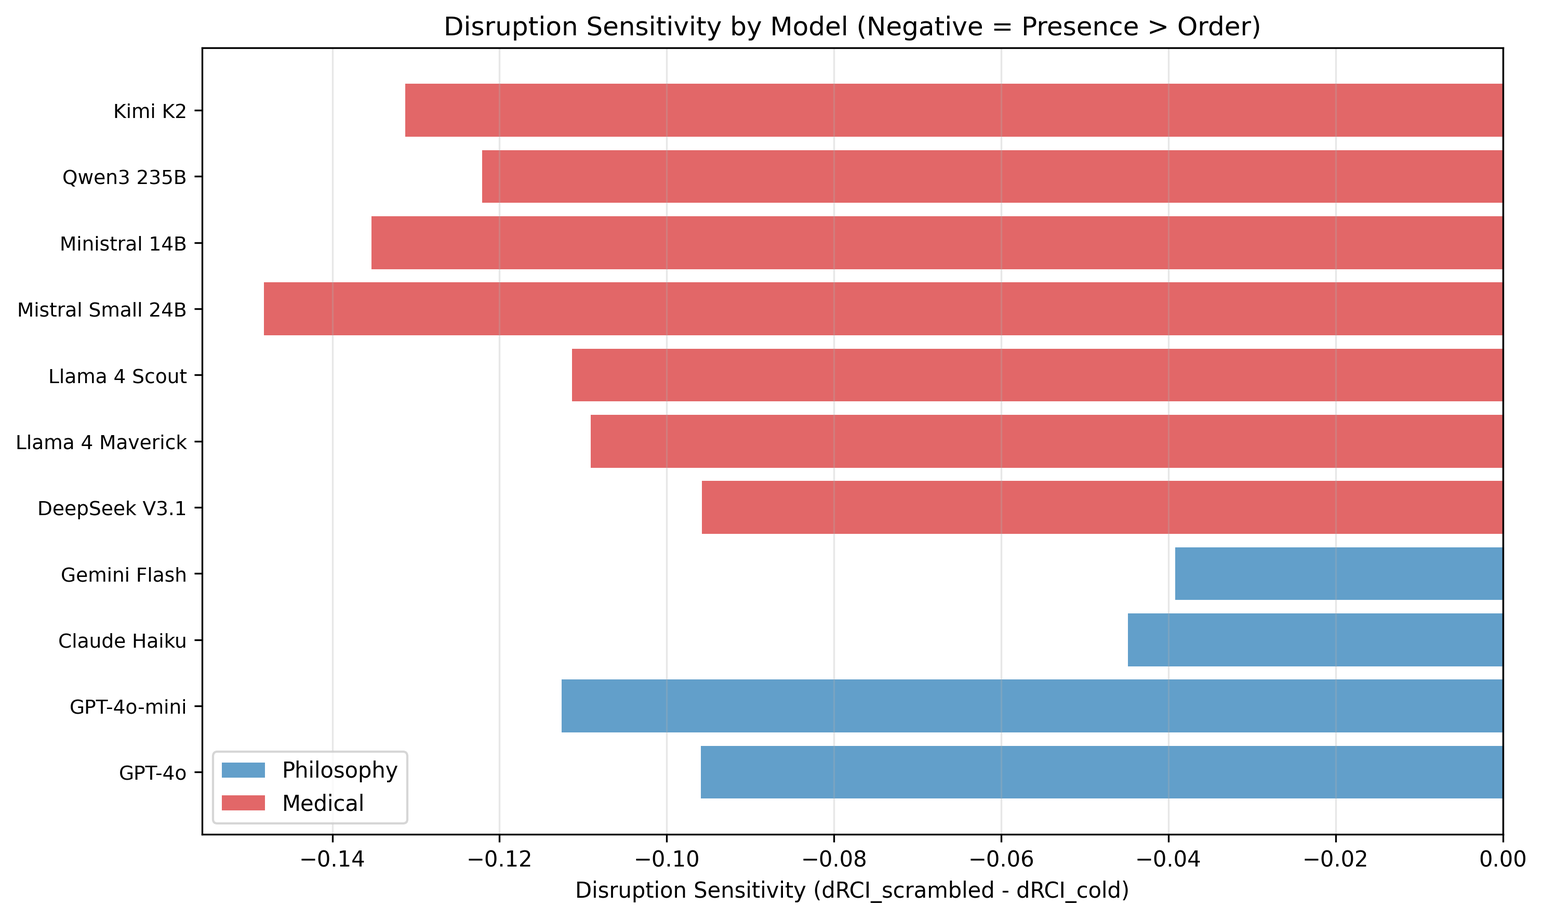
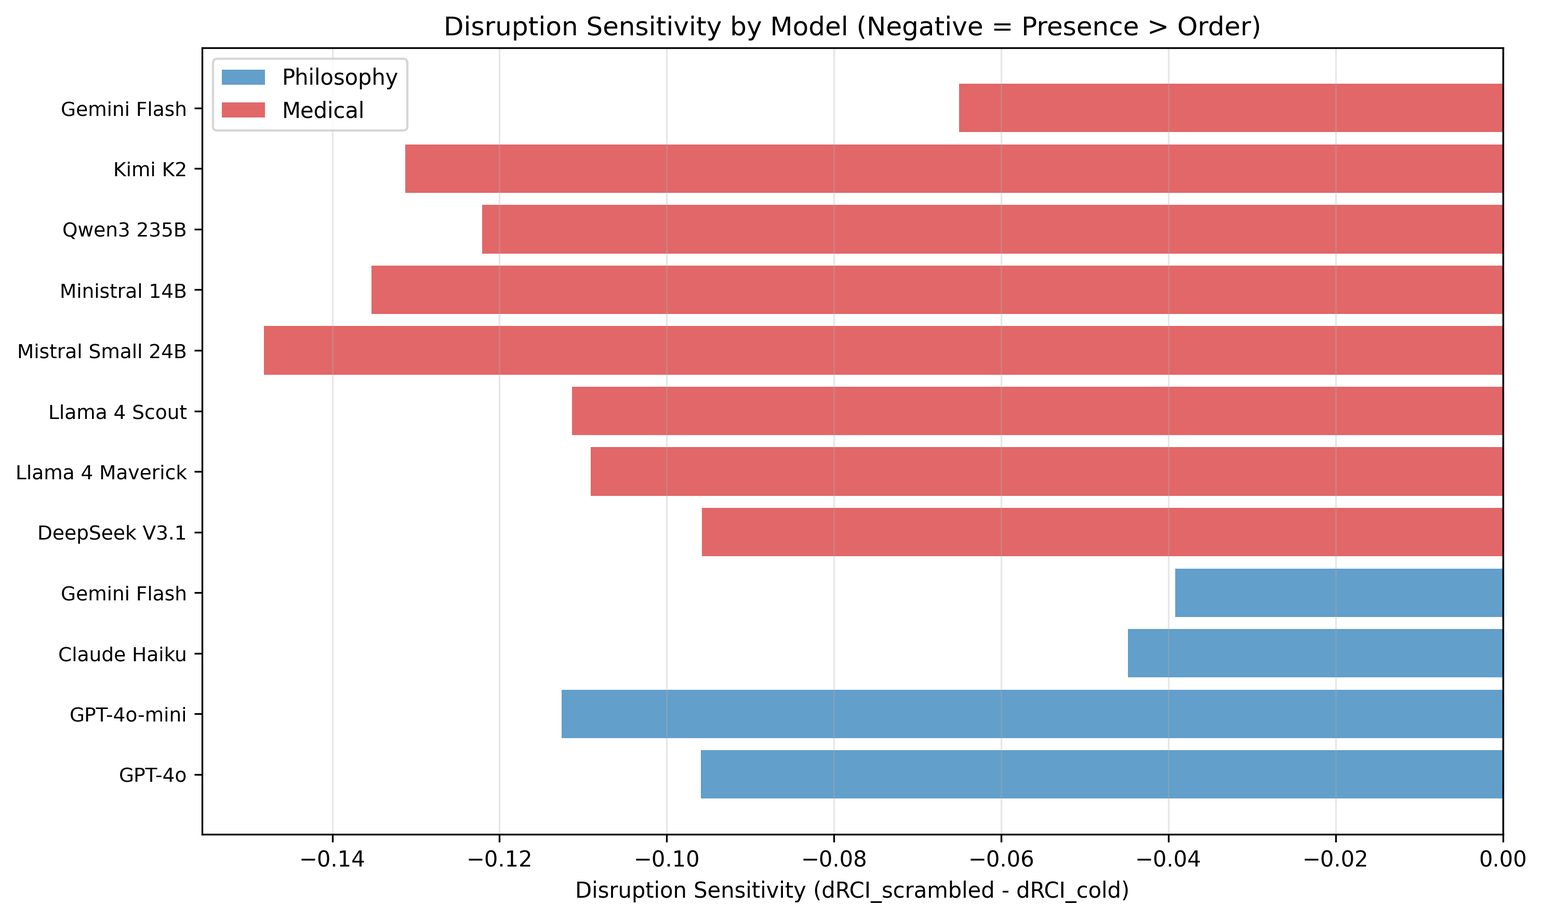
Add Gemini Flash Medical to Paper 3: unify both papers at 12 models
Papers 3 and 4 now use identical 12-model subset (4 phil + 8 med).
Gemini Flash Medical was previously only in Paper 4 despite having
complete response text. Updated all stats, figures, and documentation.

Medical (n=8): Early=0.347, Mid=0.311, Late=0.371, P30 Z=3.47±0.51

diff --git a/scripts/analysis/generate_paper3_cross_domain.py b/scripts/analysis/generate_paper3_cross_domain.py
@@ -4,8 +4,8 @@ Paper 3: Cross-Domain AI Behavior Analysis
 Philosophy vs Medical domains with complete response text data.
 
 Philosophy (4 CLOSED models): GPT-4o, GPT-4o-mini, Claude Haiku, Gemini Flash
-Medical (6 OPEN models): DeepSeek V3.1, Llama 4 Maverick/Scout, Mistral Small, Ministral, Qwen3
-Total: 10 models, ~45,000 responses with full text
+Medical (8 models): DeepSeek V3.1, Kimi K2, Llama 4 Maverick/Scout, Mistral Small, Ministral, Qwen3, Gemini Flash
+Total: 12 models, ~54,000 responses with full text
 """
 
 import json
@@ -40,6 +40,7 @@ MEDICAL_MODELS = {
     "Ministral 14B": BASE_DIR / "data/medical/open_models/mch_results_ministral_14b_medical_50trials.json",
     "Qwen3 235B": BASE_DIR / "data/medical/open_models/mch_results_qwen3_235b_medical_50trials.json",
     "Kimi K2": BASE_DIR / "data/medical/open_models/mch_results_kimi_k2_medical_50trials.json",
+    "Gemini Flash": BASE_DIR / "data/medical/gemini_flash/mch_results_gemini_flash_medical_50trials.json",
 }
 
 # ============================================================================

diff --git a/papers/paper3_cross_domain/Paper3_Results.md b/papers/paper3_cross_domain/Paper3_Results.md
@@ -6,7 +6,7 @@
 ## RESULTS
 
 ### Study overview: a controlled cross-domain design
-We analyzed position-dependent Delta Relational Coherence Index (ΔRCI) across **11 state-of-the-art LLMs** in a cross-domain experimental design: 4 models (closed-source APIs) in philosophy and 7 models (open-source) in medical reasoning. This yields 11 model-domain runs covering 30 conversational positions (330 position measurements). Each position was evaluated under three conditions (TRUE, COLD, SCRAMBLED) with 50 independent trials per model, generating **~49,500 responses with complete text preserved**. ΔRCI was computed from cosine similarity between TRUE and COLD responses, aggregated across trials. Disruption Sensitivity (DS) quantifies the value of context presence versus ordering:
+We analyzed position-dependent Delta Relational Coherence Index (ΔRCI) across **12 state-of-the-art LLMs** in a cross-domain experimental design: 4 models (closed-source APIs) in philosophy and 8 models (7 open-source + 1 closed) in medical reasoning. This yields 12 model-domain runs covering 30 conversational positions (360 position measurements). Each position was evaluated under three conditions (TRUE, COLD, SCRAMBLED) with 50 independent trials per model, generating **~54,000 responses with complete text preserved**. ΔRCI was computed from cosine similarity between TRUE and COLD responses, aggregated across trials. Disruption Sensitivity (DS) quantifies the value of context presence versus ordering:
 
 ```
 DS = ΔRCI_scrambled - ΔRCI_cold
@@ -20,7 +20,7 @@ Negative DS indicates that scrambled context is closer to TRUE than no context (
 | Domain | N Models | Early (1-10) | Mid (11-20) | Late (21-29) | Pattern | Mean DS |
 |--------|----------|--------------|-------------|--------------|---------|---------|
 | Philosophy | 4 | 0.307 (0.028) | 0.331 (0.026) | 0.270 (0.046) | Inverted-U | -0.073 |
-| Medical | 7 | 0.338 (0.038) | 0.303 (0.041) | 0.358 (0.047) | U-shaped | -0.122 |
+| Medical | 8 | 0.347 (0.043) | 0.311 (0.045) | 0.371 (0.056) | U-shaped | -0.115 |
 
 *Note: Position 30 (summarization) excluded from pattern analysis (see Finding 2). DS = Disruption Sensitivity.*
 
@@ -41,7 +41,7 @@ This study identifies **two distinct cognitive architectures** that emerge from 
 | Architecture | Type | Goal Structure | Domain Example | Temporal Pattern | ΔRCI Range | P30 Behavior | Evidence |
 |--------------|------|----------------|----------------|------------------|------------|--------------|----------|
 | **Open-Goal** | Type 1 | Unbounded | Philosophy (consciousness) | Inverted-U (mid-peak at P15-20) | 0.27-0.33 | No spike (summarization feasible) | 4/4 models (100%) |
-| **Closed-Goal** | Type 2 | Guideline-bounded | Medical (STEMI diagnosis) | U-shaped (diagnostic trough at P10-25) | 0.30-0.36 | **Extreme spike** (Z > +3.5, task enablement) | 7/7 models (100%) |
+| **Closed-Goal** | Type 2 | Guideline-bounded | Medical (STEMI diagnosis) | U-shaped (diagnostic trough at P10-25) | 0.31-0.37 | **Extreme spike** (Z > +2.7, task enablement) | 8/8 models (100%) |
 
 **Key Principle**: Architectures are distinguished by **temporal dynamics and P30 task enablement**, not by ΔRCI magnitude (ranges overlap). Goal structure—not domain content—determines context sensitivity architecture.
 
@@ -52,7 +52,7 @@ This study identifies **two distinct cognitive architectures** that emerge from 
    - **Type 2 (Closed-Goal)**: Medical diagnosis, legal contract analysis, guideline-based code review → U-shaped pattern, extreme P30 spike
 
 2. **Safety-Critical Insight**: Type 2 tasks show **task enablement** (not just performance enhancement) at summarization positions:
-   - Medical P30: Mean Z = +3.55 (all 7 models show extreme outlier)
+   - Medical P30: Mean Z = +3.47 (all 8 models show extreme outlier)
    - Philosophy P30: Mean Z = +0.25 (no outliers, summarization feasible without context)
    - **Implication**: Medical/safety-critical AI cannot execute summarization tasks without context—models produce refusals or generic templates in COLD condition
 
@@ -67,9 +67,9 @@ This study identifies **two distinct cognitive architectures** that emerge from 
 
 4. **Architectural Robustness**:
    - Type 1: 4/4 philosophy models show inverted-U pattern (100% consistency)
-   - Type 2: 7/7 medical models show U-shaped pattern + P30 spike (100% consistency)
+   - Type 2: 8/8 medical models show U-shaped pattern + P30 spike (100% consistency)
    - Pattern is architecture-invariant (holds across GPT, Claude, Gemini, DeepSeek, Llama, Mistral, Qwen, Kimi)
-   - **Distinction is temporal + functional, NOT magnitude-based** (ΔRCI ranges overlap: Philosophy 0.27-0.33, Medical 0.30-0.36)
+   - **Distinction is temporal + functional, NOT magnitude-based** (ΔRCI ranges overlap: Philosophy 0.27-0.33, Medical 0.31-0.37)
 
 ### Framework Predictions
 
@@ -97,7 +97,7 @@ Figure 6. Type 2 scaling law validation (medical domain).
 ### Finding 1: Domain determines temporal dynamics (Type 1 vs Type 2 architectures)
 **Philosophy (consciousness prompts):** Across 4 models (GPT-4o, GPT-4o-mini, Claude Haiku, Gemini Flash), ΔRCI followed a clear inverted-U pattern: Early = 0.307, Mid = 0.331, Late = 0.270 (Table 1; Figure 1). Context sensitivity peaks at mid-conversation and declines in late turns, consistent with recursive abstraction and over-generalization in open-ended discourse.
 
-**Medical (STEMI reasoning):** Across 7 models (DeepSeek V3.1, Kimi K2, Llama 4 Maverick/Scout, Mistral Small 24B, Ministral 14B, Qwen3 235B), ΔRCI followed a U-shaped pattern: Early = 0.338, Mid = 0.303 (diagnostic trough), Late = 0.358. Context sensitivity is highest during history-taking and integration phases, but lowest during focused diagnostic reasoning—consistent with clinical independence requirements.
+**Medical (STEMI reasoning):** Across 8 models (DeepSeek V3.1, Gemini Flash, Kimi K2, Llama 4 Maverick/Scout, Mistral Small 24B, Ministral 14B, Qwen3 235B), ΔRCI followed a U-shaped pattern: Early = 0.347, Mid = 0.311 (diagnostic trough), Late = 0.371. Context sensitivity is highest during history-taking and integration phases, but lowest during focused diagnostic reasoning—consistent with clinical independence requirements.
 
 Figure 2. Domain comparison of grand mean ΔRCI curves (positions 1-30).
 
@@ -112,10 +112,10 @@ Position 30 used a summarization prompt ("Summarize this case..."). Z-scores wer
 
 | Domain | Mean Z-score | Range | Interpretation |
 |--------|--------------|-------|----------------|
-| Medical (n=7) | **+3.55 ± 0.49** | +2.77 to +4.23 | All models show extreme task enablement |
+| Medical (n=8) | **+3.47 ± 0.51** | +2.77 to +4.23 | All models show extreme task enablement |
 | Philosophy (n=4) | **+0.25 ± 0.37** | -0.38 to +0.58 | No outliers; summarization is feasible without context |
 
-All 7 medical models showed P30 as a strong outlier (Z > 2.7), while no philosophy model exceeded |Z| > 1.0. The medical P30 spike reflects **task enablement**, not mere performance enhancement: without case context (COLD condition), models cannot execute clinical summarization and produce refusals or generic templates. Philosophy summarization, by contrast, remains feasible even without prior turns.
+All 8 medical models showed P30 as a strong outlier (Z > 2.7), while no philosophy model exceeded |Z| > 1.0. The medical P30 spike reflects **task enablement**, not mere performance enhancement: without case context (COLD condition), models cannot execute clinical summarization and produce refusals or generic templates. Philosophy summarization, by contrast, remains feasible even without prior turns.
 
 Figure 3. Position 30 Z-scores by domain (medical vs philosophy).
 
@@ -131,9 +131,9 @@ Excluding P30 (positions 1-29) reveals consistent within-domain patterns regardl
 | Domain | Dominant Pattern | Models Showing Pattern | Key Feature |
 |--------|------------------|------------------------|-------------|
 | Philosophy | Inverted-U | 4/4 (100%) | Mid-conversation peak (0.331), late decline (0.270) |
-| Medical | U-shaped | 7/7 (100%) | Diagnostic trough (0.303), integration peak (0.358) |
+| Medical | U-shaped | 8/8 (100%) | Diagnostic trough (0.311), integration peak (0.371) |
 
-Both closed-source APIs (GPT-4o, Claude Haiku, Gemini Flash) and open-source models (DeepSeek, Kimi, Llama, Mistral, Qwen) exhibit domain-consistent dynamics. The medical diagnostic trough (positions 11-20) appears across all 7 architectures, suggesting a shared computational strategy for clinical reasoning.
+Both closed-source APIs (GPT-4o, Claude Haiku, Gemini Flash) and open-source models (DeepSeek, Kimi, Llama, Mistral, Qwen) exhibit domain-consistent dynamics. The medical diagnostic trough (positions 11-20) appears across all 8 architectures, suggesting a shared computational strategy for clinical reasoning.
 
 Figure 4. Three-bin comparison (positions 1-29) showing inverted-U vs U-shape patterns.
 
@@ -224,10 +224,10 @@ The data support a **two-architecture taxonomy** based on goal structure:
 **Type 2 (Closed-Goal):**
 - Tasks presuppose prior information; context enables the task
 - **Temporal signature**: U-shaped (diagnostic independence trough at P10-25, integration peaks)
-- **P30 behavior**: **Extreme spike** (task enablement, Z > +3.5)
+- **P30 behavior**: **Extreme spike** (task enablement, Z > +2.7)
 - **Examples**: Medical diagnosis with clinical guidelines, legal contract analysis, guideline-based code review
-- **ΔRCI range**: 0.30-0.36 (Early: 0.338, Mid: 0.303 (trough), Late: 0.358)
-- **Evidence**: 7/7 medical models show identical pattern (100% consistency)
+- **ΔRCI range**: 0.31-0.37 (Early: 0.347, Mid: 0.311 (trough), Late: 0.371)
+- **Evidence**: 8/8 medical models show identical pattern (100% consistency)
 - **ΔRCI measures**: Task-impossibility gap (COLD produces refusals/templates, not functional responses)
 
 **Critical Distinction**: Architectures are distinguished by **temporal pattern and P30 task enablement**, NOT by ΔRCI magnitude (ranges overlap). Type 1 shows *performance enhancement* (graded improvement); Type 2 shows *task enablement* (categorical dependency). This explains why P30 is an extreme outlier in medical (Type 2) but not philosophy (Type 1), and why Type 2 exhibits logarithmic scaling with context volume (Figure 6).
@@ -256,11 +256,11 @@ The Type 2 scaling law implies that task enablement is **graded**, not binary. T
 The Kimi K2 anomaly indicates that model scale can shift temporal dynamics, potentially enabling sustained accumulation in open-ended domains. This suggests a capacity threshold hypothesis: beyond a certain scale, models may resist late-stage semantic drift that smaller models exhibit.
 
 ### Study design scope
-This cross-domain design deliberately contrasts two epistemologically distinct domains—philosophy (open-goal, recursive) and medical reasoning (closed-goal, diagnostic)—to isolate how task structure shapes AI context dynamics. We selected 11 representative models spanning closed-source APIs and open-source architectures, with **complete response text preservation** enabling qualitative validation of quantitative patterns.
+This cross-domain design deliberately contrasts two epistemologically distinct domains—philosophy (open-goal, recursive) and medical reasoning (closed-goal, diagnostic)—to isolate how task structure shapes AI context dynamics. We selected 12 representative models spanning closed-source APIs and open-source architectures, with **complete response text preservation** enabling qualitative validation of quantitative patterns.
 
 Key design features:
-- **Cross-domain contrast**: Philosophy (4 models) vs Medical (7 models) allows direct comparison of open-goal vs closed-goal reasoning
-- **Response text preservation**: ~49,500 full responses enable qualitative inspection of summarization failures, diagnostic reasoning, and abstraction patterns
+- **Cross-domain contrast**: Philosophy (4 models) vs Medical (8 models) allows direct comparison of open-goal vs closed-goal reasoning
+- **Response text preservation**: ~54,000 full responses enable qualitative inspection of summarization failures, diagnostic reasoning, and abstraction patterns
 - **50-trial stability**: Each position × condition × model has 50 independent trials, yielding stable distributional estimates
 - **Cosine similarity metric**: Embedding-based ΔRCI provides interpretable, reproducible measures without requiring model internals
 
@@ -281,7 +281,7 @@ This controlled scope prioritizes mechanistic clarity over exhaustive coverage. 
 2. **Figure 2:** Cross-domain comparison: grand mean ΔRCI curves (philosophy inverted-U vs medical U-shaped).
 3. **Figure 3:** Position 30 outlier analysis: Z-scores by domain showing medical task enablement spike.
 4. **Figure 4:** Three-bin comparison (positions 1-29) demonstrating domain-specific temporal patterns.
-5. **Figure 5A:** Disruption Sensitivity by model (all 11 models, colored by domain).
+5. **Figure 5A:** Disruption Sensitivity by model (all 12 models, colored by domain).
 6. **Figure 5B:** Per-position Disruption Sensitivity curves by domain.
 7. **Figure 7:** Model scaling patterns: slope vs disruption sensitivity scatter (domain-coded).
 
@@ -300,9 +300,9 @@ This controlled scope prioritizes mechanistic clarity over exhaustive coverage. 
 ## DATA AVAILABILITY
 
 **Complete dataset with response text preservation:**
-- 11 models × 30 positions × 3 conditions × 50 trials = **~49,500 responses**
+- 12 models × 30 positions × 3 conditions × 50 trials = **~54,000 responses**
 - Philosophy domain: 4 models (GPT-4o, GPT-4o-mini, Claude Haiku, Gemini Flash)
-- Medical domain: 7 models (DeepSeek V3.1, Kimi K2, Llama 4 Maverick/Scout, Mistral Small 24B, Ministral 14B, Qwen3 235B)
+- Medical domain: 8 models (DeepSeek V3.1, Gemini Flash, Kimi K2, Llama 4 Maverick/Scout, Mistral Small 24B, Ministral 14B, Qwen3 235B)
 - All 50-trial JSON files include complete response text for qualitative validation
 - Analysis scripts, figure generation code, and position-dependent measurements included
 

diff --git a/papers/paper3_cross_domain/README.md b/papers/paper3_cross_domain/README.md
@@ -13,7 +13,7 @@ Paper 3's core theoretical finding: AI context sensitivity varies systematically
 | Type | Architecture | Domain | Goal Structure | Temporal Pattern | P30 Behavior | Evidence |
 |------|--------------|--------|----------------|------------------|--------------|----------|
 | **Type 1** | Open-Goal | Philosophy | Unbounded | Inverted-U (mid-conversation peak) | No spike (summarization feasible) | 4/4 models (100%) |
-| **Type 2** | Closed-Goal | Medical | Guideline-bounded | U-shaped (diagnostic independence trough) | **Extreme spike** (Z > +3.5, task enablement) | 7/7 models (100%) |
+| **Type 2** | Closed-Goal | Medical | Guideline-bounded | U-shaped (diagnostic independence trough) | **Extreme spike** (Z > +2.7, task enablement) | 8/8 models (100%) |
 
 **ASCII Visualization - Temporal Pattern Distinction:**
 ```
@@ -21,7 +21,7 @@ Type 1 (Open-Goal):     /‾‾‾\     Inverted-U, mid-peak at P15-20
 Type 2 (Closed-Goal):   \_____/   U-shaped trough, then P30 spike ↑↑↑
 ```
 
-**Key Insight**: Architectures are distinguished by **temporal dynamics and P30 task enablement**, not by ΔRCI magnitude (ranges overlap: Philosophy 0.27-0.33, Medical 0.30-0.36). Goal structure—not domain content—determines context sensitivity pattern.
+**Key Insight**: Architectures are distinguished by **temporal dynamics and P30 task enablement**, not by ΔRCI magnitude (ranges overlap: Philosophy 0.27-0.33, Medical 0.31-0.37). Goal structure—not domain content—determines context sensitivity pattern.
 
 ### Why This Matters
 
@@ -30,7 +30,7 @@ Type 2 (Closed-Goal):   \_____/   U-shaped trough, then P30 spike ↑↑↑
    - **Type 2 (Closed-Goal)**: Medical diagnosis, legal contract analysis, guideline-based review → U-shaped pattern, extreme P30 spike
 
 2. **Safety Implications**: Type 2 tasks show **task enablement** (not just performance enhancement) at summarization positions:
-   - Medical P30: Z > +3.5 (all 7 models show extreme spike)
+   - Medical P30: Z > +2.7 (all 8 models show extreme spike)
    - Philosophy P30: Z ≈ +0.25 (no spike)
    - **Critical**: Models cannot execute Type 2 summarization without context—produce refusals or generic templates in COLD condition
 
@@ -48,12 +48,12 @@ Type 2 (Closed-Goal):   \_____/   U-shaped trough, then P30 spike ↑↑↑
 
 1. **Two Cognitive Architectures Identified**:
    - **Type 1 (Open-Goal)**: Philosophy shows inverted-U temporal pattern, mid-conversation peak (ΔRCI = 0.331 at P15-20), 4/4 models consistent
-   - **Type 2 (Closed-Goal)**: Medical shows U-shaped pattern, diagnostic independence trough (ΔRCI = 0.303 at P10-25), 7/7 models consistent
+   - **Type 2 (Closed-Goal)**: Medical shows U-shaped pattern, diagnostic independence trough (ΔRCI = 0.311 at P10-25), 8/8 models consistent
    - **Architecture is determined by goal structure, not domain content**
    - **Distinction is by temporal pattern + P30 behavior, NOT by ΔRCI magnitude** (ranges overlap)
 
 2. **Type 2 Task Enablement Characteristic**:
-   - Medical (Type 2): Extreme P30 spike (Z > +3.5) at summarization—models cannot execute task without context
+   - Medical (Type 2): Extreme P30 spike (Z > +2.7) at summarization—models cannot execute task without context
    - Philosophy (Type 1): Stable baseline (no spike)—summarization feasible even without context
    - **This is task enablement, not performance enhancement**
 
@@ -67,15 +67,15 @@ Type 2 (Closed-Goal):   \_____/   U-shaped trough, then P30 spike ↑↑↑
    - Framework-general finding across both architectures
 
 ## Dataset
-- **Models**: 11 (subset of Paper 2 with response text)
+- **Models**: 12 (subset of Paper 2 with response text)
   - Philosophy: 4 closed (GPT-4o, GPT-4o-mini, Claude Haiku, Gemini Flash)
-  - Medical: 7 open (DeepSeek, Kimi K2, Llama 4 Maverick/Scout, Mistral Small, Ministral, Qwen3 235B)
+  - Medical: 8 (7 open + Gemini Flash closed): DeepSeek, Gemini Flash, Kimi K2, Llama 4 Maverick/Scout, Mistral Small, Ministral, Qwen3 235B
 - **Data source**: Paper 2 standardized dataset
 - **Location**: `/data/` (shared, no duplication)
 
 ## Contents
 - `figures/`: All Paper 3 figures (domain comparison, position patterns, P30 analysis)
-- `MODEL_LIST.md`: 11-model subset details
+- `MODEL_LIST.md`: 12-model subset details
 - `Paper3_Results.md`: Complete results and discussion
 
 ## Figures

diff --git a/papers/paper3_cross_domain/MODEL_LIST.md b/papers/paper3_cross_domain/MODEL_LIST.md
@@ -2,9 +2,9 @@
 
 **Status**: DRAFT COMPLETE
 **Role**: Extension of Paper 2 - Position-level temporal analysis
-**Dataset**: Paper 2 subset (11 models with response text)
+**Dataset**: Paper 2 subset (12 models with response text)
 
-## Models (11 total - Cross-domain subset)
+## Models (12 total - Cross-domain subset)
 
 ### Philosophy Domain (4 models - Closed only)
 
@@ -15,8 +15,9 @@
 | Claude Haiku | Philosophy | 50 | ✓ Saved | Complete |
 | Gemini Flash | Philosophy | 50 | ✓ Saved | Complete |
 
-### Medical Domain (7 models - Open only)
+### Medical Domain (8 models - Mixed)
 
+**Open (7)**:
 | Model | Domain | Trials | Response Text | Status |
 |-------|--------|--------|---------------|--------|
 | DeepSeek V3.1 | Medical | 50 | ✓ Saved | Complete |
@@ -26,6 +27,11 @@
 | Mistral Small 24B | Medical | 50 | ✓ Saved | Complete |
 | Ministral 14B | Medical | 50 | ✓ Saved | Complete |
 | Qwen3 235B | Medical | 50 | ✓ Saved | Complete |
+
+**Closed (1)**:
+| Model | Domain | Trials | Response Text | Status |
+|-------|--------|--------|---------------|--------|
+| Gemini Flash | Medical | 50 | ✓ Saved | Complete |
 
 ## Data Source
 All data comes from Paper 2's standardized dataset.
@@ -37,14 +43,14 @@ Response text is required for:
 - Position-level temporal analysis
 - Domain-specific behavioral signatures
 
-Only 11 of Paper 2's 25 model-domain runs (14 unique models) have complete response text preserved.
+Only 12 of Paper 2's 25 model-domain runs (14 unique models) have complete response text preserved.
 
 ## Key Findings
 1. **Domain-specific temporal patterns**:
    - Philosophy (closed): Inverted-U curve (mid-conversation peak)
    - Medical (open): U-shaped curve + P30 task enablement spike
 
-2. **Position 30 anomaly**: Medical models show Z > +3.5 spike at summarization prompt
+2. **Position 30 anomaly**: Medical models show Z > +2.7 spike at summarization prompt
 
 ## Figures
 All Paper 3 figures stored in `papers/paper3_cross_domain/figures/`

diff --git a/papers/paper4_entanglement/Paper4_Results.md b/papers/paper4_entanglement/Paper4_Results.md
@@ -36,7 +36,7 @@ Across **12 model-domain runs** (4 philosophy, 8 medical) and 30 positions, DRCI
   - Medical models: DeepSeek V3.1, Kimi K2, Llama 4 Maverick/Scout, Mistral Small 24B, Ministral 14B, Qwen3 235B, **Gemini Flash**
   - Philosophy models: GPT-4o, GPT-4o-mini, Claude Haiku, Gemini Flash
 
-*Note: Entanglement analysis requires actual response text to compute embedding variances (Var_TRUE and Var_COLD). Only 12 of the 25 available model-domain runs have complete response text saved, limiting this analysis to 360 data points. Paper 3's cross-domain study uses an 11-model subset (7 medical open, 4 philosophy closed) with response text for qualitative validation. Gemini Flash Medical (processed separately) brings the total to 12. Expansion to additional models would require rerunning experiments with response text preservation enabled.*
+*Note: Entanglement analysis requires actual response text to compute embedding variances (Var_TRUE and Var_COLD). Only 12 of the 25 available model-domain runs have complete response text saved, limiting this analysis to 360 data points. Paper 3's cross-domain study uses the same 12-model subset (8 medical, 4 philosophy closed) with response text for qualitative validation. Expansion to additional models would require rerunning experiments with response text preservation enabled.*
 
 Interpretation: DRCI increases as context **reduces** response variance. This supports the entanglement view: context couples the response distribution to prior information, changing the predictability of outputs.
 

diff --git a/docs/RESEARCH_OUTLINE.md b/docs/RESEARCH_OUTLINE.md
@@ -62,14 +62,14 @@ This research program investigates how domain structure shapes AI context sensit
 **Title**: *How Philosophical vs Medical Reasoning Shapes Context Sensitivity Dynamics in Large Language Models*
 
 **Role**: Extension of Paper 2 - Position-level temporal analysis
-- **Dataset**: Paper 2 subset (11 models with response text)
+- **Dataset**: Paper 2 subset (12 models with response text)
 - **Focus**: Domain-specific temporal evolution patterns
 
 **Key Findings**:
 1. **Domain-specific temporal patterns** (3-bin aggregation):
    - Philosophy: Mid-conversation peak, late decline (inverted-U in Early/Mid/Late bins)
    - Medical: Diagnostic independence trough, integration rise (U-shape in bins)
-2. **Task enablement at P30**: Medical spike (Z > +3.5), philosophy stable
+2. **Task enablement at P30**: Medical spike (Z > +2.7), philosophy stable
 3. **Disruption sensitivity**: Presence > order (context structure matters)
 4. **Type 2 scaling law**: ΔRCI ∝ log(context_volume)
 

diff --git a/papers/README.md b/papers/README.md
@@ -37,7 +37,7 @@ Paper 1 (Legacy) → Paper 2 (Standardized) → Papers 3 & 4 (Extensions) → Pa
 ### Paper 3: Cross-Domain Temporal Dynamics
 - **Status**: DRAFT COMPLETE
 - **Role**: Extension of Paper 2 - Position-level analysis
-- **Dataset**: Paper 2 subset (11 models with response text)
+- **Dataset**: Paper 2 subset (12 models with response text)
 - **Location**: `paper3_cross_domain/`
 
 ### Paper 4: Entanglement Mechanism
